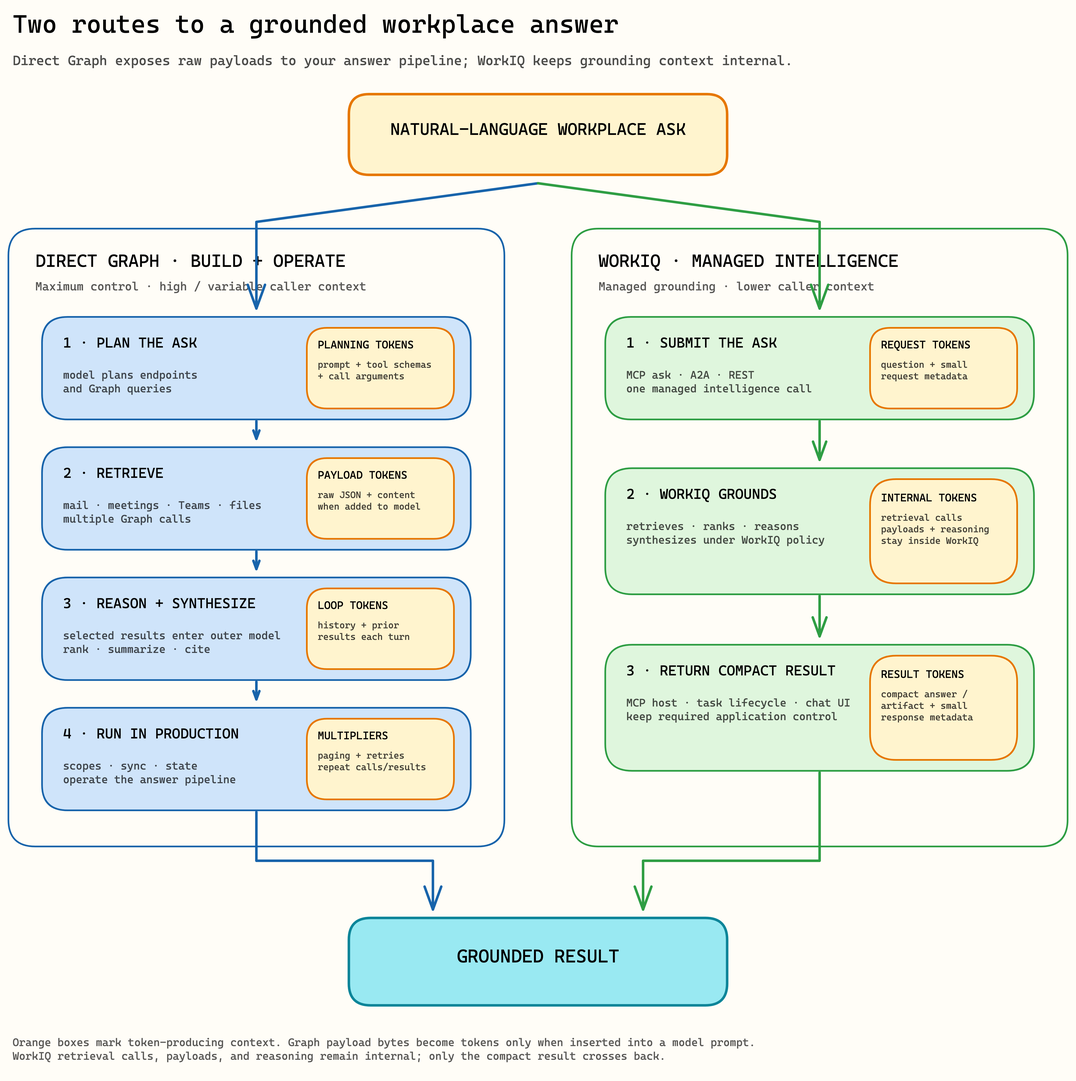
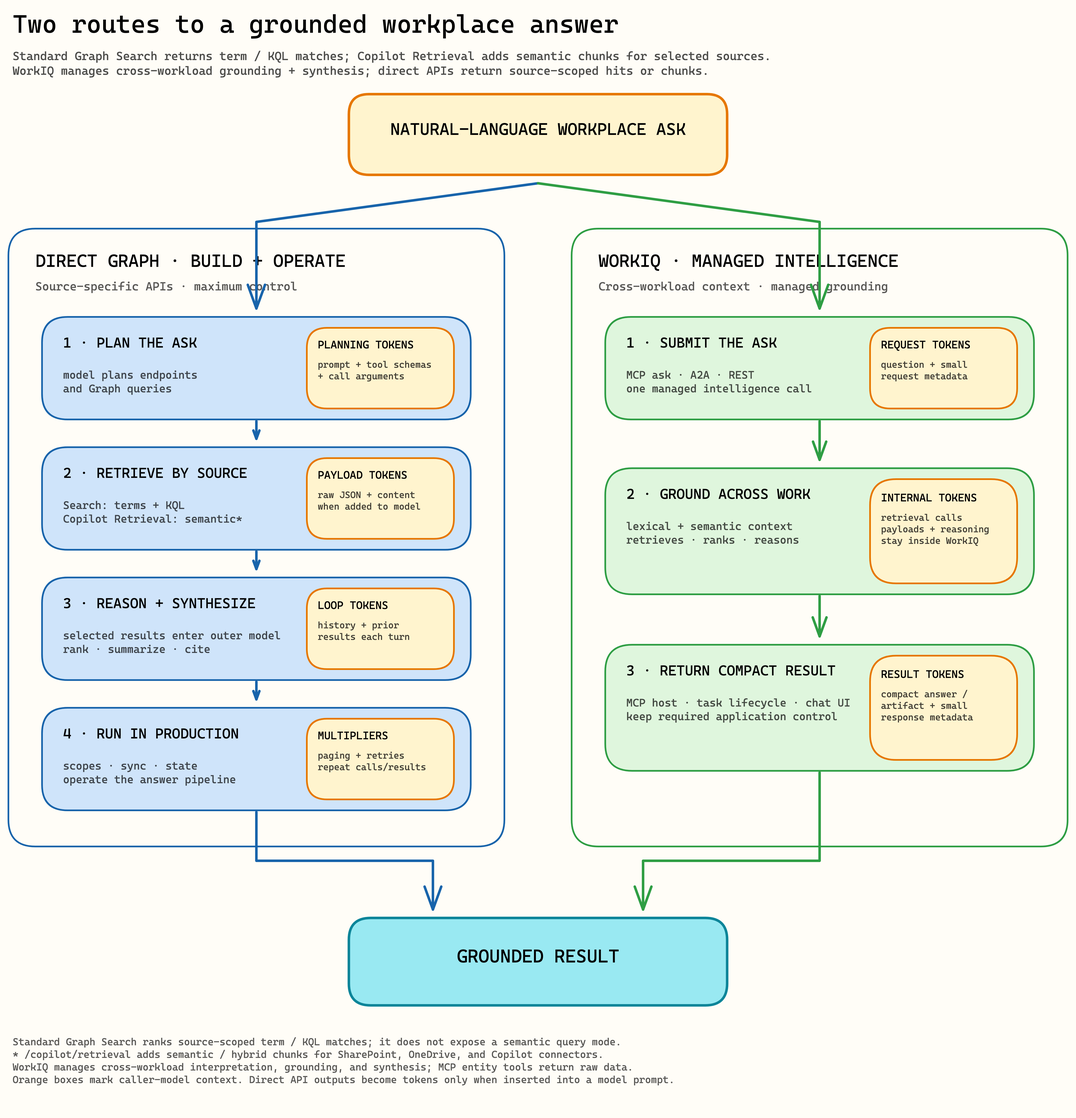
docs: update WorkIQ protocol boundaries and Graph retrieval

diff --git a/docs/assets/stylesheets/extra.css b/docs/assets/stylesheets/extra.css
@@ -458,6 +458,11 @@ body {
   box-shadow: 0 8px 22px rgba(13, 21, 19, 0.08);
 }
 
+.md-typeset .admonition :is(p, li),
+.md-typeset details :is(p, li) {
+  max-width: none;
+}
+
 .md-typeset code,
 .md-typeset pre {
   letter-spacing: 0;

diff --git a/docs/graph-vs-workiq.md b/docs/graph-vs-workiq.md
@@ -8,7 +8,7 @@ layer through MCP, A2A, or REST.
 ## Executive architecture view
 
 <figure class="workiq-diagram workiq-diagram--raster">
-  <img src="../assets/images/graph-vs-workiq.png" width="2560" height="2572" alt="A natural-language workplace ask branches into two paths. Orange callouts identify token sources. Direct Graph adds planning tokens from prompts, tool schemas, and call arguments; payload tokens when raw JSON and content enter the model; loop tokens when history and prior results are resent; and repeated calls and results from paging or retries. WorkIQ receives request tokens, keeps retrieval calls, payloads, and reasoning inside the service, then returns compact result tokens. Both paths produce a grounded result.">
+  <img src="../assets/images/graph-vs-workiq.png" width="2560" height="2660" alt="A natural-language workplace ask branches into two integration paths. Direct Microsoft Graph requires the application to plan source-specific calls, retrieve term- or KQL-based search hits or semantic chunks from Copilot Retrieval for supported file sources, and perform synthesis. Those selected payloads create caller-model tokens when inserted into the application's prompt. WorkIQ natural-language surfaces manage cross-workload retrieval, ranking, reasoning, and synthesis inside the service, then return a compact grounded result. MCP entity tools remain raw-data operations.">
 </figure>
 
 **Executive takeaway:** WorkIQ reduces the custom build and operating surface for grounded workplace
@@ -20,28 +20,72 @@ cross-workload retrieval, and synthesis to the application. WorkIQ can own those
 `ask`, A2A, or REST; MCP entity tools retain more caller control.
 
 !!! info "Caller-model token boundary"
-  A Graph response is data, not automatically an LLM token charge. The token increase happens when
-  the application serializes selected messages, meetings, files, content, and metadata into its
-  model context for synthesis. Cross-workload fan-out often makes that input substantially larger
-  and more variable than WorkIQ `ask`, A2A, or REST, where retrieval and ranking context stays
-  inside WorkIQ and synthesized output crosses back to the caller.
+    A Graph response is not measured in LLM tokens by itself. It becomes model input when the
+    application serializes selected messages, meetings, files, content, and metadata into a prompt
+    for synthesis. Cross-workload fan-out can make that caller-owned context large and variable.
+    With WorkIQ `ask`, A2A, or REST, retrieval and ranking context stays inside WorkIQ and synthesized
+    output crosses back to the caller.
 
-  This is a directional architecture comparison, not a published multiplier or a claim about
-  WorkIQ's internal processing. Careful `$select`, filtering, ranking, truncation, and caching can
-  reduce Graph input tokens. MCP entity tools return raw data and have the same Graph-like token
-  profile when their results are inserted into an outer model context.
+    This is a directional architecture comparison, not a published multiplier or a claim about
+    WorkIQ's internal processing. Careful `$select`, filtering, ranking, truncation, and caching can
+    reduce Graph input tokens. MCP entity tools return raw data and have the same Graph-like token
+    profile when their results are inserted into an outer model context.
 
-  The orange callouts separate the token-producing stages:
+    The orange callouts separate the token-producing stages:
 
-  1. **Planning tokens:** the outer model receives its prompt, tool schemas, and call arguments.
-  2. **Payload tokens:** each Graph response contributes raw JSON, content, and metadata when the
-    application inserts it into model context.
-  3. **Loop tokens:** later reasoning turns can resend conversation history and prior tool results.
-  4. **Multipliers:** paging, retries, and additional source calls can repeat arguments and results.
+    1. **Planning tokens:** the outer model receives its prompt, tool schemas, and call arguments.
+    2. **Payload tokens:** each Graph response contributes raw JSON, content, and metadata when the
+       application inserts it into model context.
+    3. **Loop tokens:** later reasoning turns can resend conversation history and prior tool results.
+    4. **Multipliers:** paging, retries, and additional source calls can repeat arguments and results.
 
-  On the WorkIQ lane, request and compact-result tokens cross the caller boundary. Retrieval calls,
-  source payloads, ranking, and reasoning are still processed, but remain inside WorkIQ rather than
-  being assembled in the caller's outer model context.
+    On the WorkIQ lane, request and compact-result tokens cross the caller boundary. Retrieval calls,
+    source payloads, ranking, and reasoning are still processed, but remain inside WorkIQ rather than
+    being assembled in the caller's outer model context.
+
+## Does direct Graph provide semantic retrieval?
+
+**Not through one uniform search contract.** Direct Microsoft Graph includes resource endpoints,
+the Microsoft Search API, and newer Copilot APIs with different source coverage and retrieval
+behavior. "Graph search" therefore needs a qualifier.
+
+| Surface | Documented scope | Retrieval contract |
+| --- | --- | --- |
+| Resource APIs and Microsoft Search `POST /search/query` | A defined set that includes Outlook messages and events, Teams messages, SharePoint and OneDrive items, people, and connector content; not every Graph entity. | Free text, KQL, properties, and entity-specific relevance ranking. Microsoft does not document a semantic or vector query mode for this surface. Ranking orders the matches returned for the supplied query; it is not a semantic-match guarantee. |
+| Copilot Retrieval `POST /v1.0/copilot/retrieval` | SharePoint, OneDrive, and Copilot connectors. | Natural-language retrieval from the Copilot hybrid index, including query transformation and relevant text chunks. Semantic and hybrid retrieval apply only to documented file types; other supported formats are lexical. |
+| Copilot Search API (preview) | A personalized working set of OneDrive for work or school content. | Hybrid lexical and semantic file discovery. It does not currently add Outlook, Teams, or general SharePoint search coverage. |
+| WorkIQ `ask`, A2A, and REST | Supported organizational context across Microsoft 365 and connected systems. | Interprets the workplace request, assembles grounding context, and returns a synthesized answer or artifact. WorkIQ documents semantic understanding, but this should not be read as identical semantic coverage for every entity type. |
+
+!!! info "Application and backend cost scope"
+
+    These prices apply when an application or backend calls the APIs, not to use of the Copilot user
+    interface. Copilot Retrieval and Copilot Search calls are made on behalf of a signed-in user. The
+    represented user's license determines whether the integration's call is included or billable.
+
+    | Call made by the integration | Incremental API charge |
+    | --- | --- |
+    | Copilot Retrieval for a user with a Microsoft 365 Copilot add-on license | **$0 per call.** API access is included in that user's license. |
+    | Copilot Retrieval for a user without the add-on license | **$0.10 per API call** in the pay-as-you-go preview, billed to the tenant's linked Azure subscription. For example, 1,000 backend calls cost $100. This route covers SharePoint and Copilot connectors, not OneDrive. |
+    | Copilot Search API (preview) | **$0 per call**, but only for users with the add-on license. There is no unlicensed pay-as-you-go route. |
+    | WorkIQ API used by a custom application or agent | Consumption billing through Copilot Credits; this is separate from Retrieval and Search API pricing. |
+
+    The meter counts API requests, not end-user prompts. One user action can therefore produce several
+    billable calls if the backend fans out, retries, or invokes retrieval repeatedly. These prices also
+    exclude the application's own model inference and tokens, agent or backend hosting, storage,
+    networking, and observability.
+
+For example, standard Graph search can find mail, Teams messages, or documents containing `Project
+Atlas` and relevance-rank those matches. If an item only discusses "the migration cutover and
+residency risk," conceptual matching is not a documented guarantee of `POST /search/query`. For
+SharePoint or OneDrive files, the application can instead call Copilot Retrieval. For mail, Teams,
+events, and a final answer spanning workloads, it must still expand terms, classify candidates, and
+orchestrate the sources itself, or delegate that intelligence work to WorkIQ.
+
+The key distinction is therefore not **Graph is lexical, WorkIQ is semantic**. It is **direct APIs
+return source-scoped hits or chunks that the application must orchestrate; WorkIQ natural-language
+surfaces manage cross-workload context and synthesis**. MCP entity tools remain raw resource
+operations. Semantic retrieval improves discovery, not certainty, so callers should still verify
+the returned evidence.
 
 ## Where direct Graph adds work
 
@@ -50,8 +94,9 @@ cross-workload retrieval, and synthesis to the application. WorkIQ can own those
 | Concern | Direct Microsoft Graph | WorkIQ |
 | --- | --- | --- |
 | Query planning | Select endpoints, entity types, OData or KQL, fields, and date windows. | MCP `ask`, A2A, and REST accept natural-language asks; MCP entity tools expose paths for direct control. |
-| Cross-workload retrieval | Use workload endpoints or supported Search API entity combinations, then normalize, deduplicate, and rank results. | WorkIQ assembles permission-trimmed work context across supported sources. |
-| Caller-model context tokens | Raw records, content, and metadata selected for synthesis become input tokens; cross-workload fan-out makes the load high and variable. | MCP `ask`, A2A, and REST return synthesized output after internal grounding, usually producing a much smaller caller context. MCP entity tools are the exception. |
+| Topic discovery | Standard Search matches free text or KQL and applies entity-specific ranking. Copilot Retrieval adds semantic/hybrid chunks for SharePoint, OneDrive, and connectors. | Natural-language surfaces interpret the topic and use available lexical, semantic, and organizational context across supported sources. |
+| Cross-workload retrieval | Select the appropriate resource, Search, or Copilot Retrieval API per source, then normalize, deduplicate, rank, and combine the outputs. | WorkIQ assembles permission-trimmed work context across supported sources. |
+| Caller-model context tokens | Raw records, content, and metadata selected for synthesis become input tokens; cross-workload fan-out makes the load high and variable. | MCP `ask`, A2A, and REST keep retrieval material inside WorkIQ, so caller context consists mainly of the ask and synthesized output. MCP entity tools return raw data and therefore behave like direct Graph when their results enter an outer model. |
 | Permissions | Request the least-privileged scope for every workload and operation. | Use delegated WorkIQ permissions plus tenant and path policy. |
 | Reliability | Implement paging, `429`/`503` backoff, partial batch retries, and workload-specific errors. | MCP `ask`, A2A, and REST avoid caller-managed retrieval fan-out; MCP entity-tool callers own their operation loop. |
 | Synthesis | Choose a model, constrain context, produce citations, and evaluate answer quality. | MCP `ask`, A2A, and REST return synthesized WorkIQ output; MCP entity tools leave composition to the caller. |
@@ -73,17 +118,20 @@ The labels compare production integration surface, not elapsed developer time.
 | --- | --- | --- | --- |
 | "What meetings do I have today?" | Query `calendarView`, handle time zones, recurrence, fields, and paging. | Call MCP `ask`, submit one REST turn, or send an A2A message with required location metadata. | **Low / low.** Prefer Graph for structured events; WorkIQ for a prose answer. |
 | "Brief me for my Contoso call." | Search mail, Teams, files, and events with separate scopes and requests; fetch details; merge, rank, and summarize. | Submit the ask through MCP `ask`, REST chat, or A2A according to the caller contract. | **High / low-medium.** |
+| "Find everything related to Project Atlas, including items that never use that name." | Search mail, Teams, and events with source-specific queries; use Copilot Retrieval for eligible SharePoint, OneDrive, or connector content; then classify and synthesize across outputs. | Submit the cross-workload topic ask through MCP `ask`, REST, or A2A and verify the grounded evidence. | **High / low-medium.** |
 | "Summarize project risks and correlate them with incident telemetry." | Build Microsoft 365 retrieval, an external telemetry integration, and a model/tool loop. | Give an outer agent WorkIQ MCP and telemetry tools. | **High / medium.** |
 | "Investigate the regression; let me cancel and reconnect later." | Add retrieval and synthesis plus a job queue, state store, status API, cancellation, and artifact persistence. | Send an A2A task; persist `task.id` and `contextId`; get, subscribe, or cancel while retained. | **Very high / medium.** |
 | "Create this exact approved calendar event." | Call the calendar endpoint with a narrow schema and explicit authorization. | Use an approval-gated MCP `create_entity` call. | **Low / medium.** Graph is usually the cleaner contract. |
 
 </div>
 
-The second row is the important Graph-versus-WorkIQ dividing line, not a protocol boundary. The
+The briefing and cross-workload topic rows are the important Graph-versus-WorkIQ dividing line, not
+a protocol boundary. The
 [Microsoft Search API](https://learn.microsoft.com/graph/api/resources/search-api-overview?view=graph-rest-1.0)
-provides permission-trimmed hits, but mail, events, Teams messages, and files have different scopes,
-result shapes, paging limits, and supported combinations. Search does not perform the final
-cross-source synthesis.
+provides permission-trimmed hits, and Copilot Retrieval provides relevant chunks for its supported
+sources. Mail, events, Teams messages, files, and connectors still have different scopes, result
+shapes, paging limits, and supported combinations. Neither surface performs the final cross-source
+synthesis.
 
 ## Production implications
 
@@ -92,7 +140,8 @@ cross-source synthesis.
 - A locally maintained Graph corpus also needs change notifications and delta queries, including
   token expiry and resynchronization behavior.
 - WorkIQ reduces that retrieval and synthesis surface, but it is delegated-only, usage billed, and
-  AI-generated output still requires verification. REST has no writes or long-running task contract.
+  AI-generated output still requires verification. The WorkIQ REST surface has no writes or
+  long-running task contract; A2A supplies the task lifecycle.
 - Compare caller-model input tokens separately from WorkIQ service usage. Reducing outer context does
   not mean WorkIQ performs no internal retrieval, reasoning, or billable processing.
 - Both approaches enforce the signed-in user's access. WorkIQ does not grant access to content the
@@ -106,5 +155,12 @@ cross-source synthesis.
 - [Work IQ A2A overview](https://learn.microsoft.com/microsoft-365/copilot/extensibility/work-iq/a2a/overview)
 - [Work IQ REST overview](https://learn.microsoft.com/microsoft-365/copilot/extensibility/work-iq/rest/overview)
 - [Microsoft Search API query guidance](https://learn.microsoft.com/graph/api/resources/search-api-overview?view=graph-rest-1.0)
+- [Microsoft Search API for Outlook messages](https://learn.microsoft.com/graph/search-concept-messages)
+- [Microsoft Search API for Teams messages](https://learn.microsoft.com/graph/search-concept-chat-messages)
+- [Microsoft Search API for OneDrive and SharePoint](https://learn.microsoft.com/graph/search-concept-files)
+- [Microsoft 365 Copilot Retrieval API](https://learn.microsoft.com/microsoft-365/copilot/extensibility/api/ai-services/retrieval/overview)
+- [Copilot Retrieval API pay-as-you-go pricing](https://learn.microsoft.com/microsoft-365/copilot/extensibility/api/ai-services/retrieval/paygo-retrieval)
+- [Microsoft 365 Copilot Search API (preview)](https://learn.microsoft.com/microsoft-365/copilot/extensibility/api/ai-services/search/overview)
+- [Semantic indexing for Microsoft Copilot](https://learn.microsoft.com/microsoftsearch/semantic-index-for-copilot)
 - [Microsoft Graph best practices](https://learn.microsoft.com/graph/best-practices-concept)
 - [Microsoft Graph delta query](https://learn.microsoft.com/graph/delta-query-overview)

diff --git a/docs/foundations.md b/docs/foundations.md
@@ -14,8 +14,8 @@ natural-language questions. Query complexity does not distinguish them.
 | Granular entity operations | Yes | No public primitive | No |
 | Caller-controlled writes | Yes, policy gated | Agent-dependent | No |
 | Work identity | Caller-defined | `task.id` | No task object |
-| Conversation state | Outer graph, optional WorkIQ `conversationId` | `contextId` | `conversationId` |
-| Recovery owner | Caller | WorkIQ task contract | Caller resubmits or continues |
+| Conversation state | Host transcript, optional WorkIQ `conversationId` | `contextId` | `conversationId` |
+| Recovery owner | Caller | A2A task lifecycle | Caller resubmits or continues |
 
 ## Control planes
 
@@ -48,15 +48,20 @@ natural-language questions. Query complexity does not distinguish them.
 
 | Identifier | Keep with |
 | --- | --- |
-| Deep Agent checkpoint | Application thread |
+| Outer-agent checkpoint | Application thread |
 | MCP `ask` `conversationId` | Tenant + user + outer thread |
 | A2A `contextId` | Tenant + user + workflow |
 | A2A `task.id` | Tenant + user + delegated operation |
 | REST `conversationId` | Tenant + user + chat |
 
 These are application storage boundaries, not service retention guarantees. Transport sessions are
-not conversation state, and identifiers are not credentials. Persist every identifier within the
-delegated user's identity boundary.
+not conversation state, and identifiers are not credentials. Use tenant ID, user identity, and the
+owning application thread, workflow, or chat as the storage key; never look up state by an identifier
+alone.
 
-MCP has one additional trap: the outer graph and WorkIQ `ask` can each maintain context. Reusing an
-inner `conversationId` introduces state that may not be visible in the outer transcript.
+An outer-agent checkpoint is application-owned transcript and workflow state. A2A's task lifecycle
+is the service-visible `task.id`, status, artifacts, cancellation, and subscription contract.
+
+MCP has one additional trap: the host transcript and WorkIQ `ask` can each maintain context. Reusing
+an inner `conversationId` can influence a response through state that is absent from the host
+transcript, so scope it to the same tenant, user, and outer thread.

diff --git a/docs/protocols/rest.md b/docs/protocols/rest.md
@@ -15,7 +15,7 @@ model, tool graph, or task lifecycle.
 ## Contract
 
 1. Create a conversation.
-2. Persist its `conversationId` by tenant and user.
+2. Persist its `conversationId` by tenant, user, and owning chat.
 3. Submit chat turns.
 4. Render answer text and grounding metadata.
 
@@ -34,9 +34,10 @@ attributions, adaptive cards, and sensitivity metadata.
 Do not assume per-turn controls become conversation defaults.
 
 REST chat and MCP `ask` can both accept complex natural-language questions and return synthesized
-answers. Choose REST when an application or backend wants a direct HTTP conversation contract;
-choose MCP when an LLM-based client should invoke WorkIQ through a tool contract. Complexity is not
-the differentiator.
+answers, and either can sit behind an application backend. Choose REST for an explicit HTTP
+conversation-resource contract: create a conversation, submit turns, and render responses. Choose
+MCP when an existing MCP host should discover and invoke WorkIQ alongside other tools. Question
+complexity and caller location are not the differentiators.
 
 ## Boundaries
 
@@ -45,8 +46,7 @@ REST Chat does not expose:
 - caller-facing entity primitives;
 - action skills such as sending mail or scheduling meetings;
 - caller-controlled tools or model selection;
-- task identity, cancellation, or task recovery;
-- code interpreter or graphic-art tools.
+- task identity, cancellation, or task recovery.
 
 Use A2A for delegated work with a lifecycle. Use MCP for tool-based invocation, including `ask`,
 precise reads, writes, or caller-owned cross-provider orchestration.
@@ -57,7 +57,7 @@ REST requires a delegated token for the WorkIQ audience with `WorkIQAgent.Ask`. 
 public-client PKCE flow; hosted backends exchange the frontend user assertion through OBO.
 
 No app-only equivalent is currently published for this endpoint. Conversation IDs remain scoped to
-the authorized tenant and user.
+the authorized tenant, user, and owning chat.
 
 [Delegated authentication details](../authentication.md)
 

diff --git a/docs/protocols/a2a.md b/docs/protocols/a2a.md
@@ -29,8 +29,12 @@ Agent Card rather than hard-coding agent capabilities.
 | --- | --- |
 | Message | User or agent communication |
 | Task | Stateful delegated work with an ID and lifecycle |
-| Artifact | Public task output |
+| Artifact | Agent-produced output attached to a task; not a raw Microsoft 365 resource primitive |
 | `contextId` | Grouping for related messages and tasks |
+
+WorkIQ returns both identifiers. `task.id` names one unit of delegated work; `contextId` groups a
+conversation that can contain multiple messages or tasks. Persist both, and pass the returned
+`contextId` in a later message when it should continue the same context.
 
 These objects expose collaboration state, not WorkIQ's internal retrieval plan or private
 reasoning.
@@ -44,8 +48,9 @@ reasoning.
 | `CancelTask` | Request cancellation |
 | `SubscribeToTask` | Observe subsequent task updates |
 
-Persist `task.id` and `contextId` by tenant and user. Recovery means reading a task while WorkIQ
-retains it; the published contract does not promise archival retention.
+Persist `task.id` and `contextId` as soon as WorkIQ returns them, scoped by tenant, user, and
+workflow. Recovery requires the saved `task.id` and means reading the task while WorkIQ retains it;
+the published contract does not promise archival retention or a later discovery fallback.
 
 ## Authentication
 
@@ -76,4 +81,5 @@ task operation still require authorization; task and context IDs are not capabil
 - artifacts rather than raw Microsoft 365 resources;
 - a multi-agent system that discovers peers through Agent Cards.
 
-Use REST for plain conversation. Use MCP when the caller must choose operations or perform writes.
+Use REST for a direct application-facing conversation contract. Use MCP when an MCP host should
+invoke WorkIQ as a tool, whether through `ask`, granular operations, or policy-gated writes.

diff --git a/docs/protocols/mcp.md b/docs/protocols/mcp.md
@@ -39,7 +39,7 @@ or continue the WorkIQ conversation.
 
 ## Ownership
 
-The application owns:
+The MCP host owns:
 
 - which tools are available and when they are invoked;
 - the outer model and prompt, when an outer model is used;
@@ -52,8 +52,9 @@ WorkIQ also owns Microsoft 365 grounding and synthesis inside that tool call.
 ## State
 
 MCP does not define the host's agent conversation. If the host uses an outer agent, that agent owns
-its transcript and checkpoints. WorkIQ `ask` separately returns a `conversationId`; persist it only
-when intentional WorkIQ-side continuation is required.
+its transcript and checkpoints. WorkIQ `ask` separately returns a `conversationId`. Discard it for
+a one-shot call; persist it with the tenant, user, and host thread only when a later `ask` should
+continue that same WorkIQ conversation.
 
 This repository starts `@microsoft/workiq mcp` over stdio. Its default policy exposes `ask`,
 `call_function`, `fetch`, `get_schema`, `list_agents`, and `search_paths`; `--allow-writes` keeps
@@ -66,8 +67,10 @@ Python process receives MCP messages, not the bearer token. Remote MCP uses OAut
 discovery and a resource-bound delegated token.
 
 Authorization is cumulative: delegated grant, user ACLs, tenant policy, path/method policy, and
-workload controls must all allow the operation. Keep mutations disabled by default and require an
-application approval step before exposing them to the model.
+workload controls must all allow the operation. Keep mutation tools unavailable by default.
+Enabling them is not approval: an application-controlled interrupt must show the exact operation
+and arguments, then require fresh user confirmation immediately before invocation. Model-generated
+text cannot satisfy that gate.
 
 [Delegated authentication details](../authentication.md)
 

diff --git a/docs/mcp-deepagents.md b/docs/mcp-deepagents.md
@@ -13,8 +13,11 @@ interactive sign-in and communicates with Python through MCP messages over stdio
 
 ## Run the example
 
-Complete the repository [setup](https://github.com/jeffrey-groneberg/workiq-deepagents#setup), then
-run the included read-only example:
+Prerequisites are Python 3.11+, Node.js with `npx`, `uv`, Azure CLI, and a WorkIQ-enabled Microsoft
+365 tenant. The repository [setup](https://github.com/jeffrey-groneberg/workiq-deepagents#setup)
+accepts the WorkIQ EULA and configures `WORKIQ_AGENT_MODEL_BASE_URL` and
+`WORKIQ_AGENT_MODEL_TENANT_ID`. Review the [delegated authentication boundary](authentication.md),
+then run the included read-only example:
 
 ```bash
 uv run python examples/mcp_deepagents.py \
@@ -68,7 +71,10 @@ reuse, prerequisite diagnostics, and explicit write enablement. For durable depl
 `InMemorySaver` with a persistent checkpointer and key every thread by tenant and user.
 
 Keep write tools disabled by default. Enabling them requires both WorkIQ tenant/path policy and an
-application approval step immediately before mutation.
+application-controlled approval step immediately before mutation. `--allow-writes` exposes the
+discovered write tools and changes the system prompt; it does not implement that trusted approval
+gate. A production host must interrupt tool execution, display the exact operation and arguments,
+and require fresh user confirmation before sending the call.
 
 Sources: [Deep Agents customization](https://docs.langchain.com/oss/python/deepagents/customization),
 [LangChain MCP adapters](https://github.com/langchain-ai/langchain-mcp-adapters), and the

diff --git a/docs/index.md b/docs/index.md
@@ -2,8 +2,9 @@
 
 # Three protocols. Three control boundaries.
 
-WorkIQ exposes **MCP**, **A2A**, and **REST**. They reach similar Microsoft 365 context, but
-they assign orchestration, state, and recovery to different owners.
+WorkIQ is Microsoft's workplace intelligence layer for permission-aware reasoning over Microsoft
+365 data. It exposes **MCP**, **A2A**, and **REST**. They reach similar context, but assign
+orchestration, state, and recovery to different owners.
 
 [Choose a protocol](#choose-by-ownership){ .md-button .md-button--primary }
 [Control model](foundations.md){ .md-button }
@@ -35,7 +36,7 @@ they assign orchestration, state, and recovery to different owners.
 <div class="protocol-ledger">
   <a class="protocol-row protocol-row--mcp" href="protocols/mcp/">
     <span class="protocol-code">MCP</span>
-    <span><strong>You own the loop.</strong> Let an LLM-based client call WorkIQ <code>ask</code> for a synthesized answer or compose entity, schema, and action tools.</span>
+    <span><strong>You invoke tools.</strong> Let an MCP host call WorkIQ <code>ask</code> for a synthesized answer or compose entity, schema, and action tools.</span>
     <span class="protocol-action">Inspect MCP</span>
   </a>
   <a class="protocol-row protocol-row--a2a" href="protocols/a2a/">

diff --git a/docs/authentication.md b/docs/authentication.md
@@ -32,6 +32,10 @@ sensitivity labels, information barriers, and workload policy still apply.
 | Local A2A or REST | Public client + authorization code with PKCE | Caller |
 | Hosted A2A or REST | Confidential backend + OBO | Backend |
 
+Proof Key for Code Exchange (PKCE) protects the authorization-code flow for clients that cannot
+hold a secret. OAuth On-Behalf-Of (OBO) lets a hosted backend exchange the signed-in user's token for
+a delegated WorkIQ token without changing the represented user.
+
 ### Public client
 
 Use authorization code with PKCE through the system browser or broker. A CLI is a public client and
@@ -55,7 +59,8 @@ metadata instead of hard-coding an OAuth server or assuming consent authorizes e
 
 ## Security invariants
 
-- Scope conversation, context, and task IDs by tenant and user.
+- Scope conversation, context, and task IDs by tenant, user, and their owning chat, thread, or
+    workflow.
 - Treat IDs as routing state, never authorization.
 - Keep tokens, tool payloads, grounded text, and unrestricted reference URLs out of logs.
 - Require a fresh authorized call whenever state is reused.
